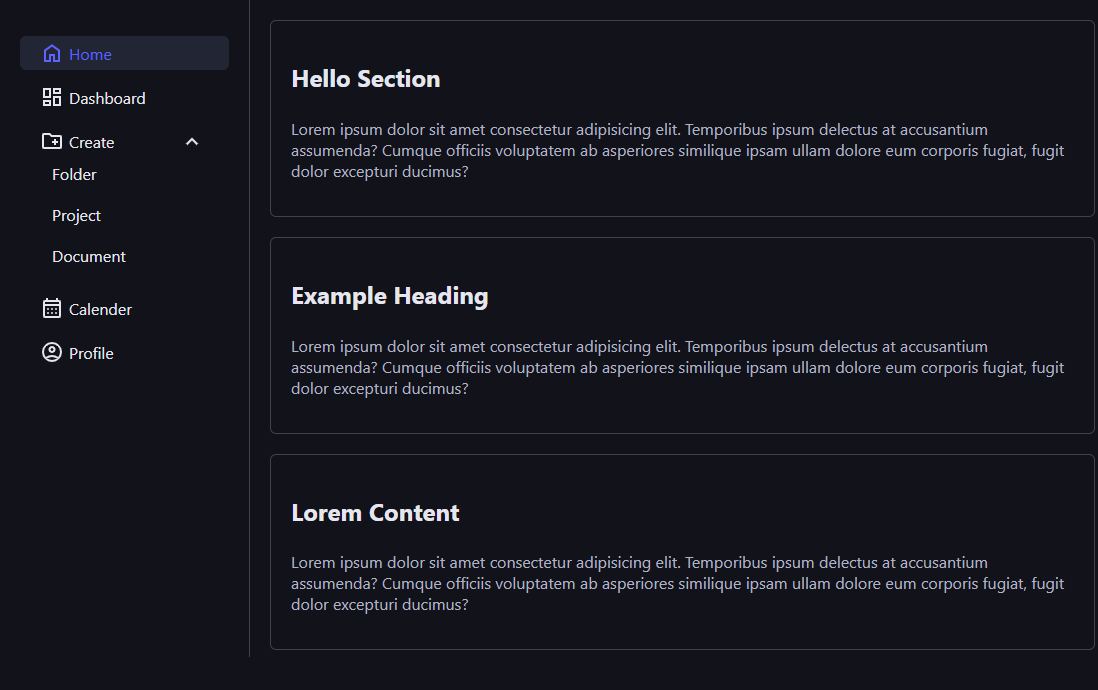
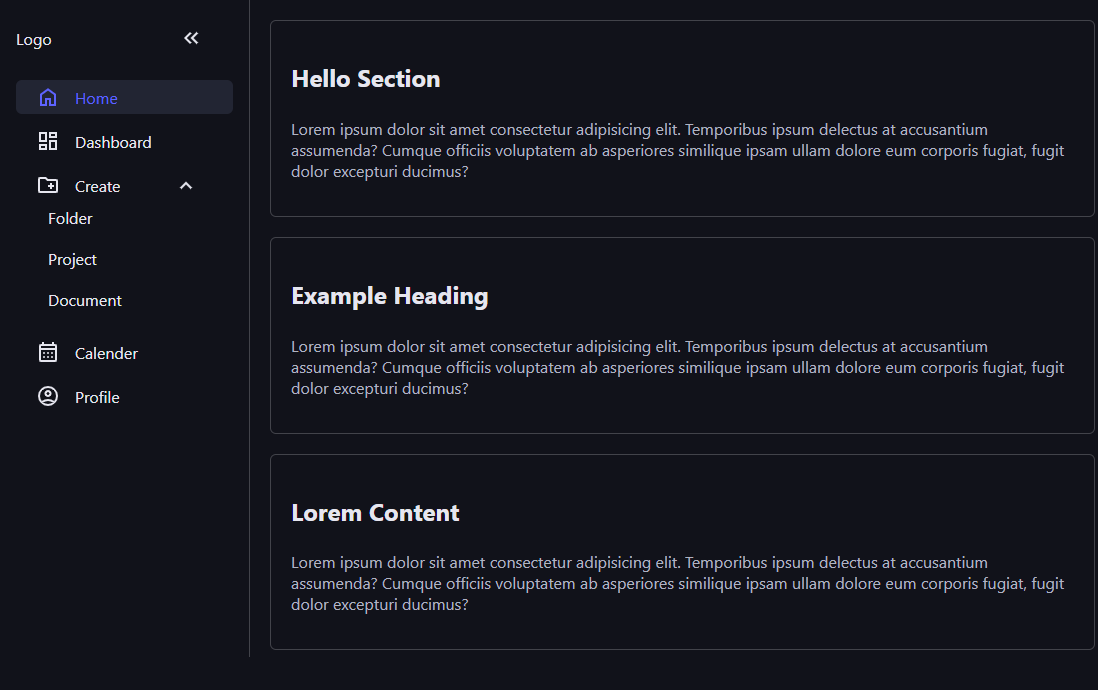
Hiding Sidebar

diff --git a/css/style.css b/css/style.css
@@ -27,6 +27,7 @@ ul li a, .dropdown-btn {
     text-decoration: none;
     border-radius: 6px;
     color: var(--text-clr);
+    transition: 300ms ease-in-out;
 }
 
 ul li a:hover, 
@@ -36,13 +37,25 @@ ul li a.active {
 }
 
 ul li svg {
-    margin-right: 5px;
+    margin-right: 15px;
     fill: var(--text-clr);
+    width: 24px;
+    min-width: 24px;
+    white-space: nowrap;
+    flex-shrink: 0;
 }
 
 ul li a:hover svg, 
-ul li a.active svg {
+ul li a.active svg
+ {
     fill: var(--accent-clr); 
+}
+
+button {
+    background: none;
+    cursor: pointer;
+    border: none;
+    font: inherit;
 }
 
 body {
@@ -56,7 +69,7 @@ body {
 }
 
 aside {
-    padding: 20px;
+    padding: 5px 1em;
     width: 250px;
     height: 100vh;
     position: sticky;
@@ -64,6 +77,53 @@ aside {
     align-self: start;
     border-right: 1px solid var(--line-clr);
     background-color: var(--base-clr);
+    transition: 300ms ease-in-out;
+    overflow: hidden;
+}
+
+aside.close {
+    width: 55px;
+}
+
+aside > ul > li:first-child {
+    padding-right: 10px;
+    display: flex;
+    align-items: center;
+    justify-content: space-between;
+    margin-bottom: 25px;
+}
+
+aside > ul > li:first-child button {
+    display: flex;
+    align-items: center;
+    padding: 5px;
+    border-radius: 6px;
+}
+
+aside > ul > li:first-child svg {
+    transition: rotate 300ms ease-in-out;
+}
+
+aside > ul > li:first-child button:hover,
+aside > ul > li:first-child button:hover svg {
+    fill: var(--accent-clr); 
+    background-color: var(--hover-clr);
+}
+
+aside > ul > li:first-child button.close svg {
+    rotate: 180deg;
+}
+
+aside.close > ul > li a,
+aside.close > ul > li button {
+    padding: 0;
+}
+
+.dropdown-btn:hover,
+.dropdown-btn:hover svg {
+    color: var(--accent-clr);
+    fill: var(--accent-clr); 
+    background-color: var(--hover-clr);
 }
 
 aside .sub-menu {
@@ -82,6 +142,15 @@ aside .sub-menu a {
 
 aside .sub-menu.show {
     grid-template-rows: 1fr;
+}
+
+span.logo {
+    transition: 300ms ease-in-out;
+}
+
+span.logo.hidden {
+    display: none;
+    
 }
 
 main {
@@ -105,12 +174,8 @@ main {
 .dropdown-btn {
     width: 100%;
     text-align: left;
-    font: inherit;
-    border: none;
-    cursor: pointer;
-    display: flex;
+    display: flex; 
     align-items: center;
-    background: none;
 }
 
 .dropdown-btn span {
@@ -120,7 +185,7 @@ main {
 /*Added by Javascript*/
 .rotate svg:last-child {
     rotate: 180deg;
-    transition: 200ms ease;
+    transition: 300ms ease;
 }
 
 /*@media(max-width: 800px){

diff --git a/index.html b/index.html
@@ -4,12 +4,18 @@
     <meta charset="UTF-8">
     <meta name="viewport" content="width=device-width, initial-scale=1.0">
     <title>Home</title>
-    <link rel="stylesheet" href="css/style.css">
-    <script type="text/javascript" src="js/app.js"></script>
+   
 </head>
 <body>
        <aside>
         <ul>
+            <li>
+                <span class="logo">Logo</span>
+                <button class="sidebar-btn" onclick="toggleSidebar(this)">
+                    <svg xmlns="http://www.w3.org/2000/svg" height="24px" viewBox="0 -960 960 960" width="24px" fill="#1f1f1f"><path d="M440-240 200-480l240-240 56 56-183 184 183 184-56 56Zm264 0L464-480l240-240 56 56-183 184 183 184-56 56Z"/></svg>
+                </button>
+            </li>
+
             <li>
                 <a class="active" href="index.html">
                     <svg xmlns="http://www.w3.org/2000/svg" height="24px" viewBox="0 -960 960 960" width="24px" fill="#1f1f1f"><path d="M240-200h120v-240h240v240h120v-360L480-740 240-560v360Zm-80 80v-480l320-240 320 240v480H520v-240h-80v240H160Zm320-350Z"/></svg>
@@ -75,4 +81,6 @@
        </main>
 
 </body>
+<link rel="stylesheet" href="css/style.css">
+<script type="text/javascript" src="js/app.js" defer></script>
 </html>

diff --git a/js/app.js b/js/app.js
@@ -1,4 +1,27 @@
-function toggleSubMenu(button) {
-    button.nextElementSibling.classList.toggle('show');
-    button.classList.toggle('rotate');
+const sidebar = document.querySelector('aside');
+const logo = document.querySelector('.logo');
+const sidebarnBtn = document.querySelector('.sidebar-btn');
+
+const dropdownBtn = document.querySelector('.dropdown-btn');
+const subMenu = document.querySelector('.sub-menu');
+ 
+function toggleSubMenu() {
+    subMenu.classList.toggle('show');
+    dropdownBtn.classList.toggle('rotate');
+
+    if(sidebar.classList.contains('close')){
+        sidebar.classList.toggle('close');
+        sidebarnBtn.classList.toggle('rotate');
+        logo.classList.toggle('hidden');
+    }
+}
+
+function toggleSidebar() {
+    sidebar.classList.toggle('close');
+    sidebarnBtn.classList.toggle('rotate');
+    logo.classList.toggle('hidden');
+    if(subMenu.classList.contains('show')) {
+        subMenu.classList.toggle('show');
+        dropdownBtn.classList.toggle('rotate');
+    }
 }

diff --git a/README.md b/README.md
@@ -12,3 +12,9 @@ Responsible CSS Grid Template with HTML and Javascript
 ###  Start Homepage (After)
 
 ![Home](screenshots/After.png)
+
+---
+
+###  Start Homepage (Hiding the Sidebar)
+
+![Home](screenshots/sidebar.png)
